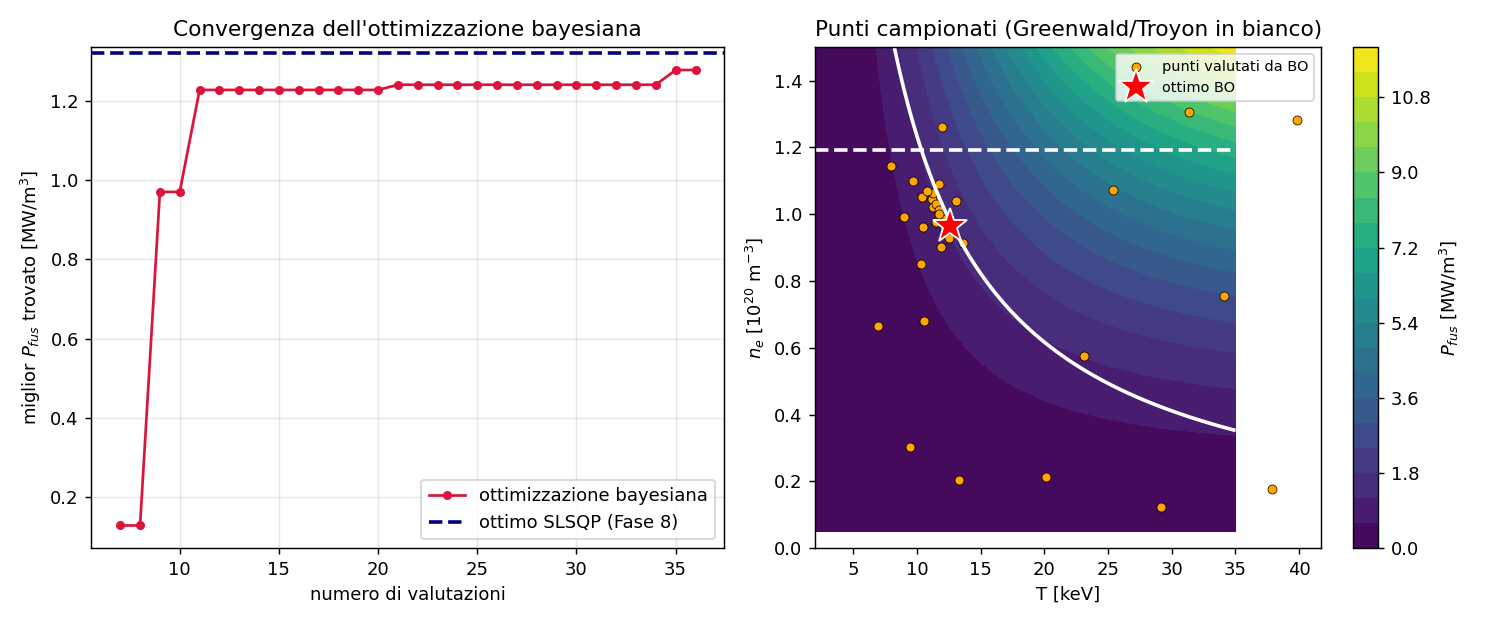
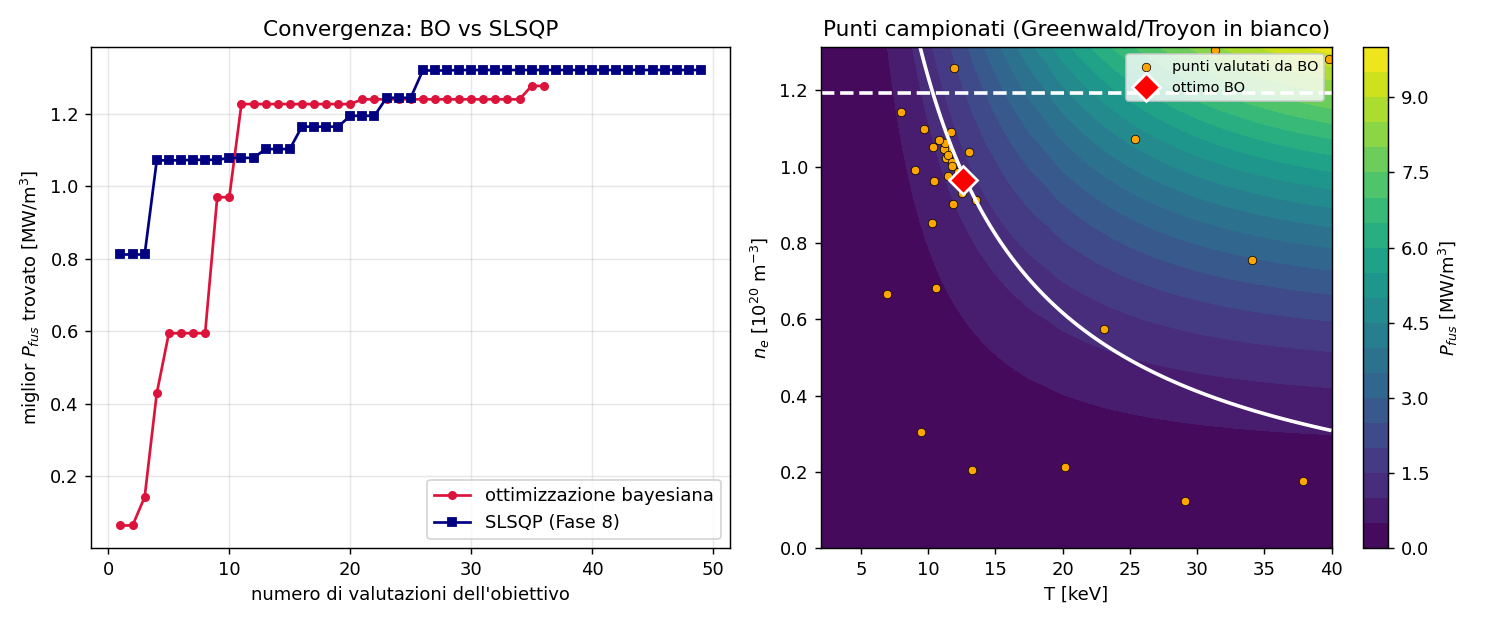
docs: improve Bayesian-opt figure (SLSQP convergence trace, marker, range)
- Traccia la convergenza di SLSQP (cresce) vs valutazioni, non solo l'ottimo

- Confronto onesto a parita' di valutazioni dell'obiettivo (BO 36, SLSQP 49)

- Marcatore ottimo: rombo piu' piccolo invece della stella

- Esteso il range del piano (T,n) a tutto il dominio di BO: niente spazi bianchi

diff --git a/notebooks/bayesopt_demo.py b/notebooks/bayesopt_demo.py
@@ -1,7 +1,8 @@
 """Ottimizzazione bayesiana del punto operativo: convergenza e punti campionati.
 
-1. Convergenza: miglior P_fus trovato vs numero di valutazioni, confrontato con
-   l'ottimo dell'ottimizzatore SLSQP (Fase 8).
+1. Convergenza a parita' di valutazioni: miglior P_fus trovato vs numero di
+   valutazioni dell'obiettivo, per BO E per SLSQP (Fase 8). Entrambe le curve
+   crescono fino al loro plateau.
 2. Dove BO ha campionato sul piano (T, n_e): si concentra vicino all'ottimo.
 """
 
@@ -11,6 +12,7 @@ from pathlib import Path
 
 import matplotlib.pyplot as plt
 import numpy as np
+from scipy.optimize import minimize
 
 from tokamak.bayesopt import bayesian_optimize, make_operating_point_objective
 from tokamak.engineering import (
@@ -19,68 +21,100 @@ from tokamak.engineering import (
     plasma_beta,
     troyon_beta_limit,
 )
-from tokamak.optimization import optimize_operating_point
 from tokamak.power_balance import fusion_power_density
 
 DOCS = Path(__file__).resolve().parent.parent / "docs"
 
 
+def _slsqp_trace(cfg: TokamakConfig, T_min: float, T_max: float):
+    """Esegue SLSQP (come la Fase 8) tracciando il miglior P_fus FEASIBLE
+    a ogni valutazione dell'obiettivo, per confronto con BO."""
+    n_G = greenwald_density(cfg.plasma_current_MA, cfg.minor_radius_m)
+    beta_max = troyon_beta_limit(cfg.beta_N, cfg.plasma_current_MA,
+                                 cfg.minor_radius_m, cfg.B_toroidal_T)
+    B = cfg.B_toroidal_T
+    feasible_pfus: list[float] = []
+
+    def neg_pfus(x):
+        n_e, T = x[0] * 1e20, x[1]
+        p = float(fusion_power_density(n_e, T)) / 1e6
+        feasible = (n_e <= n_G) and (plasma_beta(n_e, T, B) <= beta_max)
+        feasible_pfus.append(p if feasible else -np.inf)
+        return -p
+
+    constraints = [
+        {"type": "ineq", "fun": lambda x: n_G / 1e20 - x[0]},
+        {"type": "ineq", "fun": lambda x: beta_max - plasma_beta(x[0] * 1e20, x[1], B)},
+    ]
+    bounds = [(0.05, n_G / 1e20), (T_min, T_max)]
+    x0 = np.array([0.4 * n_G / 1e20, 0.5 * (T_min + T_max)])
+    minimize(neg_pfus, x0, method="SLSQP", bounds=bounds, constraints=constraints,
+             options={"ftol": 1e-10, "maxiter": 300})
+
+    best = np.maximum.accumulate(np.array(feasible_pfus))
+    best[~np.isfinite(best)] = np.nan  # prima di trovare un punto feasible
+    return best
+
+
 def main() -> None:
     cfg = TokamakConfig()
-    objective, bounds = make_operating_point_objective(cfg)
+    T_min, T_max = 5.0, 40.0
+    objective, bounds = make_operating_point_objective(cfg, T_min=T_min, T_max=T_max)
 
     n_init, n_iter = 6, 30
     res = bayesian_optimize(objective, bounds, n_init=n_init, n_iter=n_iter, seed=3)
-    slsqp = optimize_operating_point(cfg)
-    p_slsqp = slsqp.fusion_power_density / 1e6
+    bo_best = np.maximum.accumulate(res.y)  # miglior valore vs valutazione (da 1)
+
+    slsqp_best = _slsqp_trace(cfg, T_min, T_max)
+    p_opt = float(np.nanmax([np.nanmax(slsqp_best), bo_best.max()]))
 
     print(f"BO:    n_e={res.best_x[0]*1e20:.2e} m^-3, T={res.best_x[1]:.1f} keV, "
-          f"P_fus={res.best_y:.3f} MW/m^3")
-    print(f"SLSQP: n_e={slsqp.n_e:.2e} m^-3, T={slsqp.T_keV:.1f} keV, "
-          f"P_fus={p_slsqp:.3f} MW/m^3")
-    print(f"BO raggiunge il {100*res.best_y/p_slsqp:.1f}% dell'ottimo SLSQP "
-          f"in {n_init + n_iter} valutazioni")
+          f"P_fus={res.best_y:.3f} MW/m^3 in {len(res.y)} valutazioni")
+    print(f"SLSQP: P_fus={np.nanmax(slsqp_best):.3f} MW/m^3 in {len(slsqp_best)} "
+          f"valutazioni")
 
     fig, (a1, a2) = plt.subplots(1, 2, figsize=(11.5, 4.8))
 
-    # --- Convergenza ---
-    evals = np.arange(n_init + 1, n_init + n_iter + 1)
-    a1.plot(evals, res.best_history, "o-", color="crimson", ms=4,
+    # --- Convergenza (entrambe vs numero di valutazioni) ---
+    a1.plot(np.arange(1, len(bo_best) + 1), bo_best, "o-", color="crimson", ms=4,
             label="ottimizzazione bayesiana")
-    a1.axhline(p_slsqp, color="navy", ls="--", lw=2, label="ottimo SLSQP (Fase 8)")
-    a1.set_xlabel("numero di valutazioni")
+    a1.plot(np.arange(1, len(slsqp_best) + 1), slsqp_best, "s-", color="navy", ms=4,
+            label="SLSQP (Fase 8)")
+    a1.set_xlabel("numero di valutazioni dell'obiettivo")
     a1.set_ylabel(r"miglior $P_{fus}$ trovato [MW/m$^3$]")
-    a1.set_title("Convergenza dell'ottimizzazione bayesiana")
+    a1.set_title("Convergenza: BO vs SLSQP")
     a1.legend(loc="lower right")
     a1.grid(True, alpha=0.3)
 
-    # --- Punti campionati ---
-    T = np.linspace(2.0, 35.0, 200)
-    n = np.linspace(0.05e20, 1.5e20, 200)
+    # --- Punti campionati (range esteso a tutto il dominio di BO) ---
+    n_G = greenwald_density(cfg.plasma_current_MA, cfg.minor_radius_m)
+    T = np.linspace(2.0, T_max, 220)
+    n = np.linspace(0.0, 1.1 * n_G, 220)
     TT, NN = np.meshgrid(T, n)
     cf = a2.contourf(TT, NN / 1e20, fusion_power_density(NN, TT) / 1e6,
                      levels=20, cmap="viridis")
     fig.colorbar(cf, ax=a2, label=r"$P_{fus}$ [MW/m$^3$]")
-    n_G = greenwald_density(cfg.plasma_current_MA, cfg.minor_radius_m)
     beta_max = troyon_beta_limit(cfg.beta_N, cfg.plasma_current_MA,
                                  cfg.minor_radius_m, cfg.B_toroidal_T)
     a2.axhline(n_G / 1e20, color="white", ls="--", lw=2)
     a2.contour(TT, NN / 1e20, plasma_beta(NN, TT, cfg.B_toroidal_T),
                levels=[beta_max], colors="white", linewidths=2)
-    a2.scatter(res.X[:, 1], res.X[:, 0], c="orange", s=25, edgecolor="k",
+    a2.scatter(res.X[:, 1], res.X[:, 0], c="orange", s=22, edgecolor="k",
                linewidth=0.4, label="punti valutati da BO")
-    a2.plot(res.best_x[1], res.best_x[0], "r*", ms=20, markeredgecolor="white",
-            label="ottimo BO")
+    a2.plot(res.best_x[1], res.best_x[0], marker="D", color="red", ms=11,
+            markeredgecolor="white", markeredgewidth=1.5, ls="", label="ottimo BO")
     a2.set_xlabel("T [keV]")
     a2.set_ylabel(r"$n_e$ [$10^{20}$ m$^{-3}$]")
     a2.set_title("Punti campionati (Greenwald/Troyon in bianco)")
     a2.legend(loc="upper right", fontsize=8)
-    a2.set_ylim(0, 1.5)
+    a2.set_xlim(2.0, T_max)
+    a2.set_ylim(0.0, 1.1 * n_G / 1e20)
 
     fig.tight_layout()
     DOCS.mkdir(exist_ok=True)
     out = DOCS / "bayesopt.png"
     fig.savefig(out, dpi=130)
+    print(f"P_fus ottimo (riferimento): {p_opt:.3f} MW/m^3")
     print(f"Salvato: {out}")
 
 